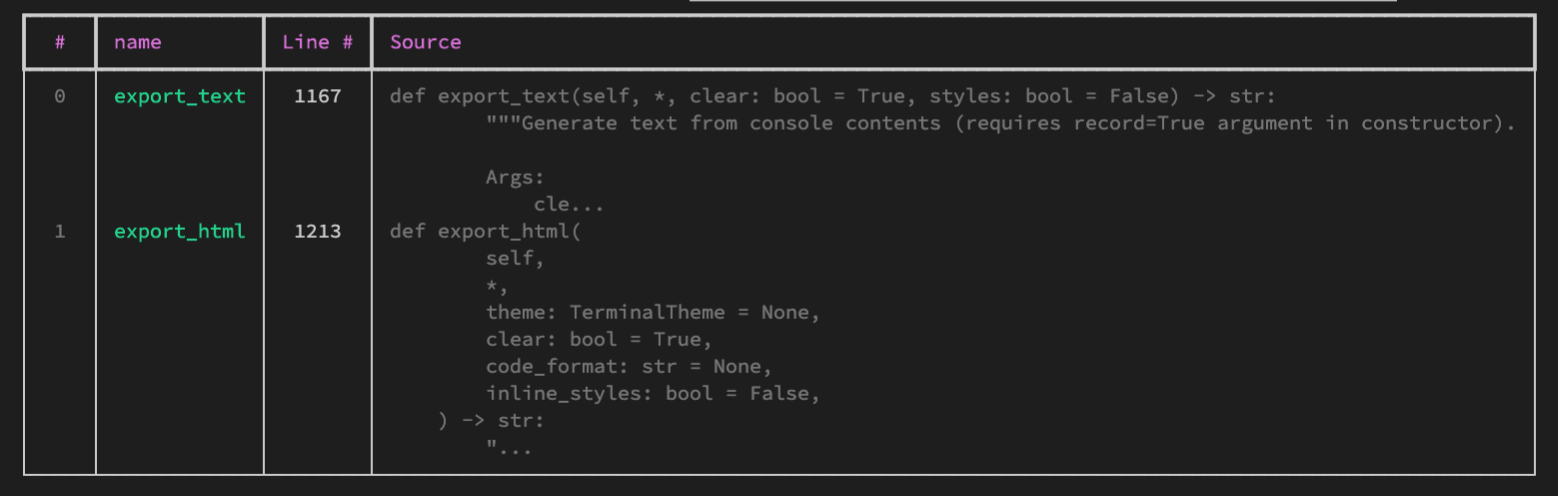
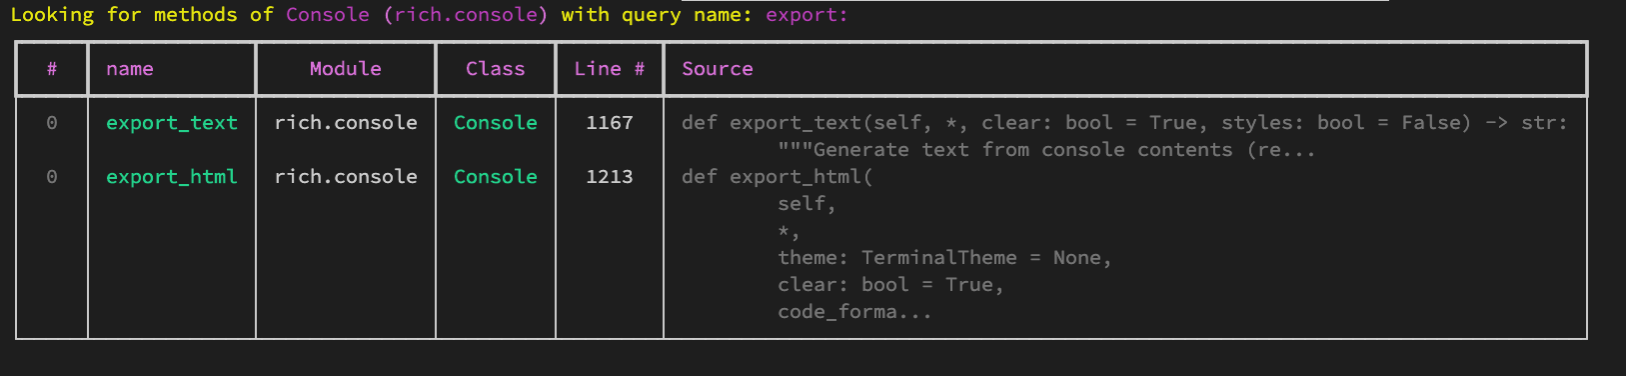
readme_update

diff --git a/pyinspect/find.py b/pyinspect/find.py
@@ -61,7 +61,6 @@ def search_class_method(
         table.add_column("name", style="bold green")
         table.add_column("Module", justify="center")
         table.add_column("Class", justify="center", style="bold green")
-        table.add_column("Is Parent", justify="center")
         table.add_column("Line #", justify="center")
         table.add_column("Source", style="dim")
 
@@ -77,18 +76,18 @@ def search_class_method(
                 lineno = inspect.getsourcelines(getattr(class_obj, k))[1]
                 class_obj = get_class_that_defined_method(v)
 
-                is_parent = (
-                    "[green]:heavy_check_mark:[/green]"
-                    if obj == class_obj
-                    else ""
-                )
+                # is_parent = (
+                #     "[green]:heavy_check_mark:[/green]"
+                #     if obj == class_obj
+                #     else ""
+                # )
 
                 table.add_row(
                     str(n),
                     k,
                     v.__module__,
                     class_obj.__name__,
-                    is_parent,
+                    # is_parent,
                     str(lineno),
                     source,
                 )
@@ -100,7 +99,7 @@ def search_class_method(
     return found
 
 
-def search_module_function(module, name="", print_table=True):
+def search_module_function(module, name="", print_table=True, **kwargs):
     """
         Given a module (e.g. matplotlib.pyplot) finds all the functions
         in it whose name includes the given search string.
@@ -111,13 +110,19 @@ def search_module_function(module, name="", print_table=True):
 
         :returns: dict with all the functions found 
     """
+    try:
+        path = module.__path__
+    except Exception:
+        path = [inspect.getfile(module)]
+
     modules = {module.__name__: module}
     for importer, modname, ispkg in pkgutil.walk_packages(
-        path=module.__path__,
-        prefix=module.__name__ + ".",
-        onerror=lambda x: None,
+        path=path, prefix=module.__name__ + ".", onerror=lambda x: None,
     ):
-        modules[modname] = importlib.import_module(modname)
+        try:
+            modules[modname] = importlib.import_module(modname)
+        except (ImportError, OSError):
+            pass
 
     # grab all function names that contain `name` from the module
     p = ".*{}.*".format(name)
@@ -165,7 +170,7 @@ def search_module_function(module, name="", print_table=True):
     }
 
 
-def search(obj, name="", print_table=True):
+def search(obj, name="", print_table=True, **kwargs):
     """
         General find function, handles both
         find in classes and find in module
@@ -175,6 +180,10 @@ def search(obj, name="", print_table=True):
         :param print_table: bool, optional. If True it prints a table with all the found items
     """
     if inspect.isclass(obj):
-        return search_class_method(obj, name=name, print_table=print_table)
+        return search_class_method(
+            obj, name=name, print_table=print_table, **kwargs
+        )
     else:
-        return search_module_function(obj, name=name, print_table=print_table)
+        return search_module_function(
+            obj, name=name, print_table=print_table, **kwargs
+        )

diff --git a/README.md b/README.md
@@ -29,11 +29,14 @@ import matplotlib.pyplot as plt
 import pyinspect
 
 # Find the functions you're looking for
-funcs = pyinspect.find(plt, name='subplot')
+funcs = pyinspect.search(plt, name='subplot')
 ```
 
 This results in:
 <img src='media/find_matplotlib.png' width=800px></img>
+
+**note**: search also looks for functions in sub-modules of the module found.
+e.g.  `search(matplotlib...)` will look for methods across the entire `matplotlib` library!
 
 \
 `pyinspect.find` can also be used to find class attributes. For example,
@@ -47,14 +50,16 @@ from rich.console import Console
 import pyinspect
 
 # find class methods
-methods = pyinspect.find(Console, 'export')
-
-
+methods = pyinspect.search(Console, 'export')
 ```
 
 Which gives:
 <img src='media/find_rich.png' width=800px></img>
 
+
+**note**: search also looks for methods matching your query 
+among the parents of the `class` you passed. Pass `include_parents=False`
+when calling `search` to restrict the search to just the class you've passed.
 
 **PRO TIP:** if you don't pass a search string (e.g. `pyinspect.find(Console)`), `pyinspect.find` will print **all** functions and methods.
 
